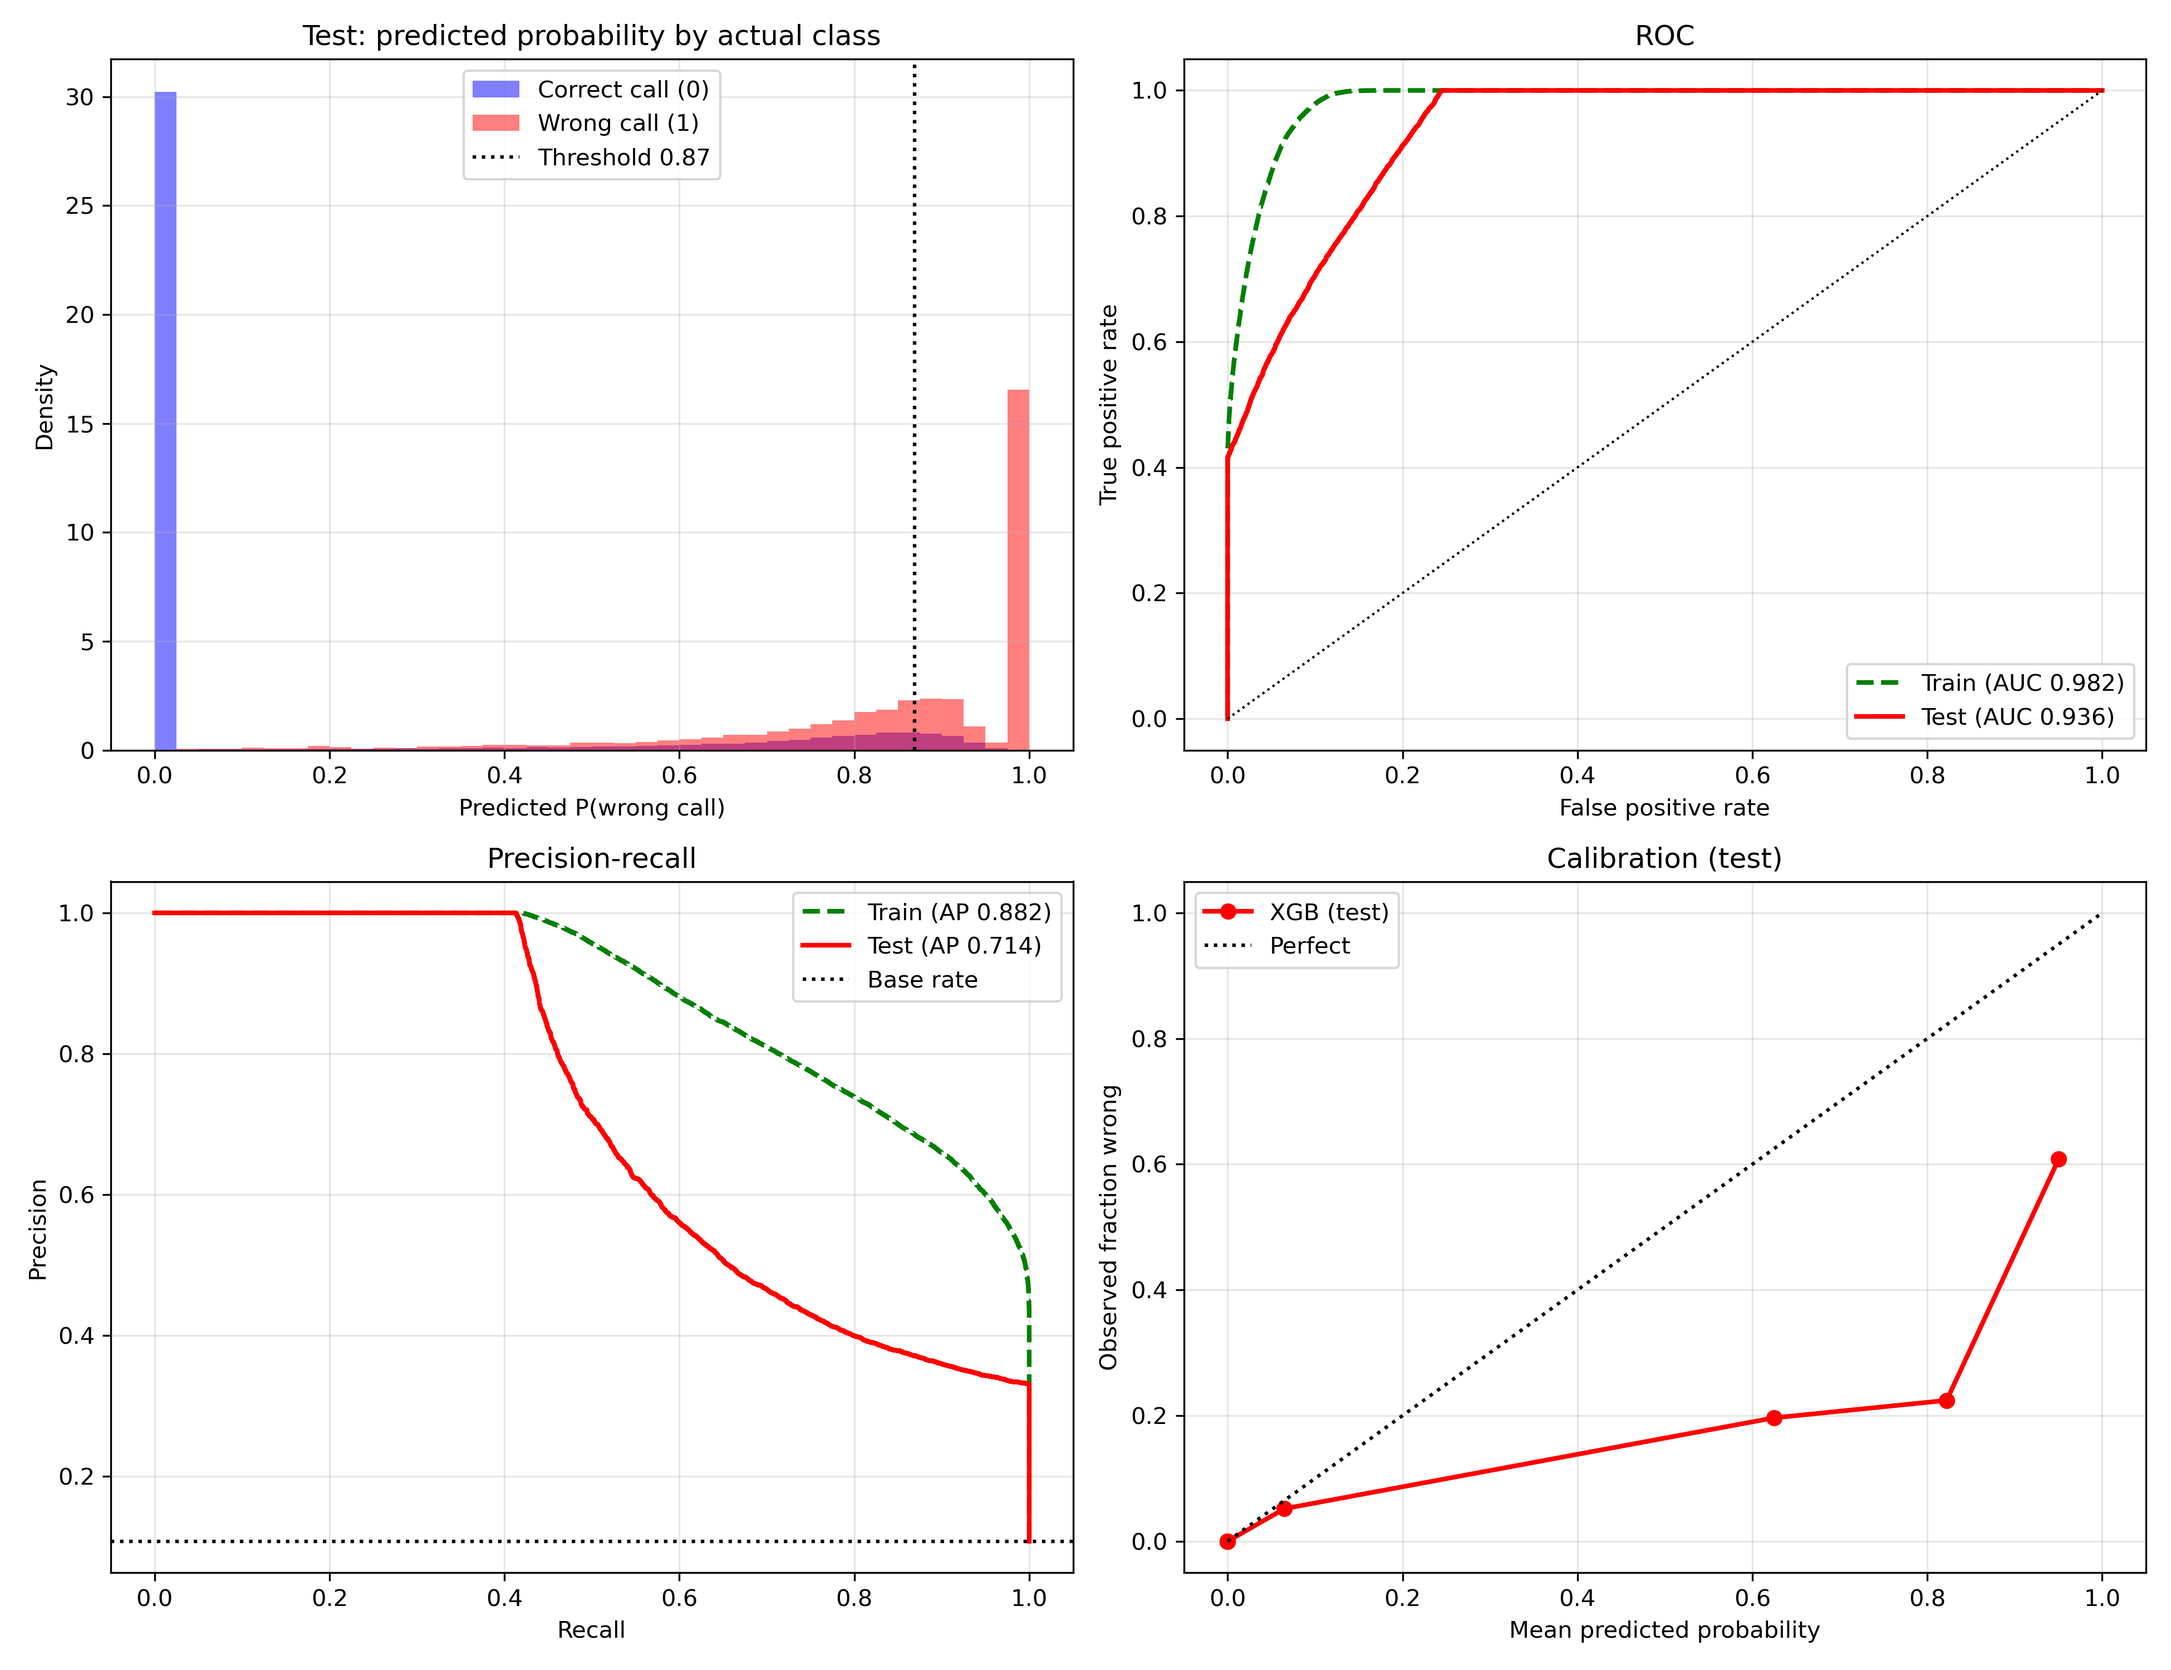
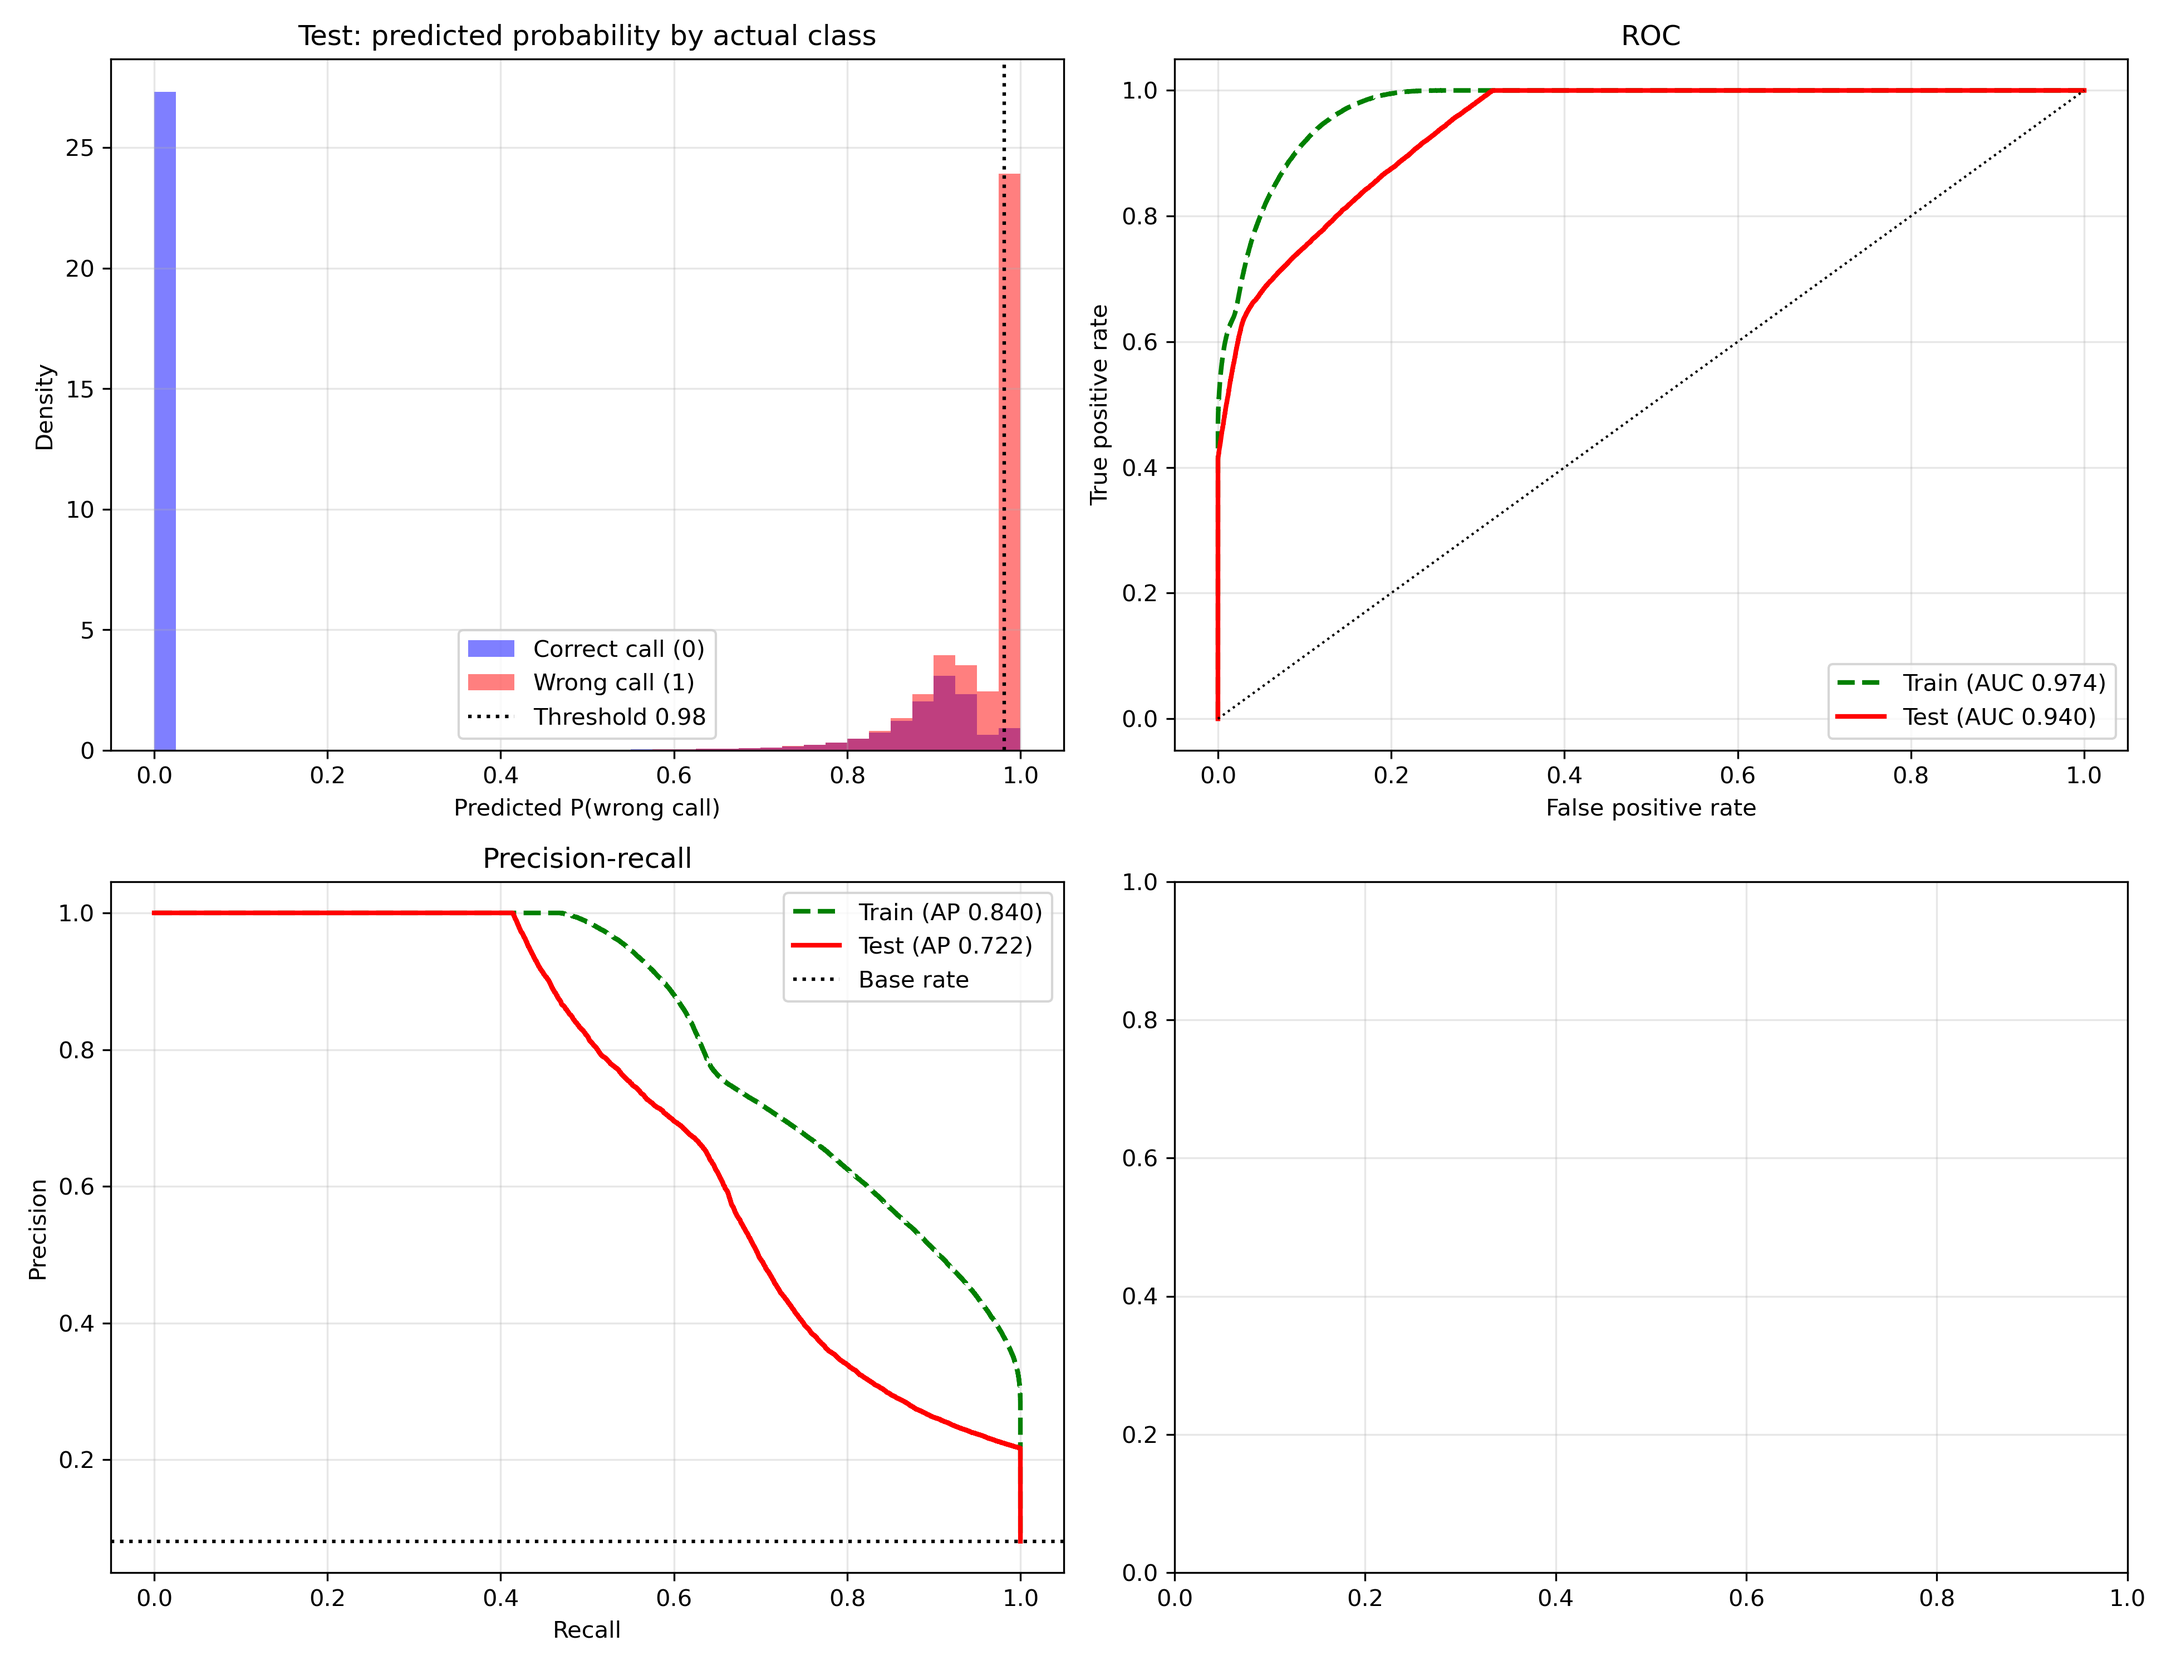
update

diff --git a/App/app.py b/App/app.py
@@ -2,10 +2,11 @@ from pathlib import Path
 import pandas as pd
 import plotly.graph_objects as go
 import streamlit as st
+import pickle
+DATA_PATH = Path(__file__).parent / "data" / "2025_preds_data.parquet"
+MODEL_PATH = Path(__file__).parent / "data" / "final_model.pkl"
 
-DATA_PATH = PATH = f"../viz/2025_preds_data.parquet"
-
-MIN_PITCHES = 30   # zones with fewer pitches than this are left blank
+MIN_PITCHES = 20   # zones with fewer pitches than this are left blank
 MAX_RATE = 0.30    
 
 # Where to draw the 5x5 grid
@@ -182,6 +183,8 @@ def make_table(zones):
 # UI Page
 st.set_page_config(page_title="ABS Challenge Planner", layout="wide")
 st.title("ABS Challenge Planner")
+mode = st.radio("Data source", ["Historical data", "New prediction"],
+                horizontal=True, label_visibility="collapsed")
 st.caption("Where is the umpire most likely to miss? Pick a situation to see which pitch "
            "locations are worth a challenge.")
 
@@ -193,84 +196,113 @@ def choices(column):
 
     return [ALL] + sorted(data[column].dropna().unique())
 
+def render_hist():
 
-# Sidebar filters
-with st.sidebar:
-    st.header("Batter")
-    batter_hand = st.radio("Bats", ["R", "L"], horizontal=True)
-    home_away = st.selectbox("Batting at", choices("home_away"))
+    # Sidebar filters
+    with st.sidebar:
+        st.header("Batter")
+        batter_hand = st.radio("Bats", ["R", "L"], horizontal=True)
+        home_away = st.selectbox("Batting at", choices("home_away"))
 
-    st.header("Pitcher")
-    pitcher_hand = st.selectbox("Throws", choices("pitcher_hand"))
-    pitcher = st.selectbox("Pitcher", choices("pitcher"))
-    pitch_type = st.selectbox("Pitch type", choices("pitch_type"))
+        st.header("Pitcher")
+        pitcher_hand = st.selectbox("Throws", choices("pitcher_hand"))
+        pitcher = st.selectbox("Pitcher", choices("pitcher"))
+        pitch_type = st.selectbox("Pitch type", choices("pitch_type"))
 
-    st.header("Game situation")
-    umpire = st.selectbox("Home plate umpire", choices("umpire"))
-    home_team = st.selectbox("Ballpark (home team)", choices("home_team"))
-    count = st.selectbox("Count (balls-strikes)", choices("count"))
-    inning = st.selectbox("Inning", choices("inning"))
-    outs = st.selectbox("Outs", choices("outs"))
+        st.header("Game situation")
+        umpire = st.selectbox("Home plate umpire", choices("umpire"))
+        home_team = st.selectbox("Ballpark (home team)", choices("home_team"))
+        count = st.selectbox("Count (balls-strikes)", choices("count"))
+        inning = st.selectbox("Inning", choices("inning"))
+        outs = st.selectbox("Outs", choices("outs"))
 
-    st.header("Challenge rule")
-    threshold_pct = st.slider("Challenge when the chance the call is wrong is at least",
-                              min_value=1, max_value=40, value=10, format="%d%%")
+        st.header("Challenge rule")
+        threshold_pct = st.slider("Challenge when the chance the call is wrong is at least",
+                                min_value=1, max_value=40, value=10, format="%d%%")
 
-# Apply the filters
-filtered = data[data["batter_hand"] == batter_hand]
-filters = {"home_away": home_away, "pitcher_hand": pitcher_hand, "pitcher": pitcher,
-           "pitch_type": pitch_type, "umpire": umpire, "home_team": home_team,
-           "count": count, "inning": inning, "outs": outs}
-for column, value in filters.items():
-    if value != ALL:
-        filtered = filtered[filtered[column] == value]
+    # Apply the filters
+    filtered = data[data["batter_hand"] == batter_hand]
+    filters = {"home_away": home_away, "pitcher_hand": pitcher_hand, "pitcher": pitcher,
+            "pitch_type": pitch_type, "umpire": umpire, "home_team": home_team,
+            "count": count, "inning": inning, "outs": outs}
+    for column, value in filters.items():
+        if value != ALL:
+            filtered = filtered[filtered[column] == value]
 
-if filtered.empty:
-    st.warning("No data for this combination of filters. Try loosening one of them.")
-    st.stop()
+    if filtered.empty:
+        st.warning("No data for this combination of filters. Try loosening one of them.")
+        st.stop()
 
-zones = summarize(filtered, batter_hand)
-zones["challenge"] = zones["enough_data"] & ((zones["wrong_rate"] * 100).round() >= threshold_pct)
-zones["recommendation"] = zones["challenge"].map({True: "Challenge", False: "Hold"})
-zones.loc[~zones["enough_data"], "recommendation"] = "Too few pitches"
+    zones = summarize(filtered, batter_hand)
+    zones["challenge"] = zones["enough_data"] & ((zones["wrong_rate"] * 100).round() >= threshold_pct)
+    zones["recommendation"] = zones["challenge"].map({True: "Challenge", False: "Hold"})
+    zones.loc[~zones["enough_data"], "recommendation"] = "Too few pitches"
 
-reliable = zones[zones["enough_data"]]
-if reliable.empty:
-    st.warning(f"Every zone has fewer than {MIN_PITCHES} pitches. Try loosening a filter.")
-    st.stop()
+    reliable = zones[zones["enough_data"]]
+    if reliable.empty:
+        st.warning(f"Every zone has fewer than {MIN_PITCHES} pitches. Try loosening a filter.")
+        st.stop()
 
-# Headline numbers
-best = reliable.sort_values("wrong_rate", ascending=False).iloc[0]
-col1, col2, col3 = st.columns(3)
-col1.metric("Zones worth a challenge", f"{zones['challenge'].sum()} of 25")
-col2.metric("Best spot to challenge", best["long_name"],
-            f"{best['wrong_rate']:.0%} chance the call is wrong", delta_color="off")
-col3.metric("Pitches behind this view", f"{zones['n_pitches'].sum():,}")
+    # Headline numbers
+    best = reliable.sort_values("wrong_rate", ascending=False).iloc[0]
+    col1, col2, col3 = st.columns(3)
+    col1.metric("Zones worth a challenge", f"{zones['challenge'].sum()} of 25")
+    col2.metric("Best spot to challenge", best["long_name"],
+                f"{best['wrong_rate']:.0%} chance the call is wrong", delta_color="off")
+    col3.metric("Pitches behind this view", f"{zones['n_pitches'].sum():,}")
 
-# The two charts
-st.caption("Viewed from behind the catcher. Inside/outside are relative to the batter. "
-           f"The dark outline is the strike zone. Zones with fewer than {MIN_PITCHES} pitches are left blank.")
-left, right = st.columns(2)
-with left:
-    st.subheader("Chance the call is wrong")
-    st.plotly_chart(make_chart(zones, False, threshold_pct), width="stretch")
-with right:
-    st.subheader(f"Challenge map (at {threshold_pct}% or higher)")
-    st.plotly_chart(make_chart(zones, True, threshold_pct), width="stretch")
+    # The two charts
+    st.caption("Viewed from behind the catcher. Inside/outside are relative to the batter. "
+            f"The dark outline is the strike zone. Zones with fewer than {MIN_PITCHES} pitches are left blank.")
+    left, right = st.columns(2)
+    with left:
+        st.subheader("Chance the call is wrong")
+        st.plotly_chart(make_chart(zones, False, threshold_pct), width="stretch")
+    with right:
+        st.subheader(f"Challenge map (at {threshold_pct}% or higher)")
+        st.plotly_chart(make_chart(zones, True, threshold_pct), width="stretch")
 
-# Tables
-st.subheader("Best challenge spots")
-table_settings = {
-    "Chance call is wrong": st.column_config.ProgressColumn(
-        format="%.0f%%", min_value=0, max_value=MAX_RATE * 100),
-    "Model score": st.column_config.NumberColumn(
-        format="%.0f%%",
-        help="Average model prediction. It runs well above the real miss rate, "
-             "so use it to compare zones, not as a true probability."),
-}
-st.dataframe(make_table(reliable).head(5), hide_index=True, width="stretch",
-             column_config=table_settings)
-with st.expander("See all 25 zones"):
-    st.dataframe(make_table(zones), hide_index=True, width="stretch",
-                 column_config=table_settings)
-st.caption(f"Data: {len(data):,} called pitches from the 2025 season.")
+    # Tables
+    st.subheader("Best challenge spots")
+    table_settings = {
+        "Chance call is wrong": st.column_config.ProgressColumn(
+            format="%.0f%%", min_value=0, max_value=MAX_RATE * 100),
+        "Model score": st.column_config.NumberColumn(
+            format="%.0f%%",
+            help="Average model prediction. It runs well above the real miss rate, "
+                "so use it to compare zones, not as a true probability."),
+    }
+    st.dataframe(make_table(reliable).head(5), hide_index=True, width="stretch",
+                column_config=table_settings)
+    with st.expander("See all 25 zones"):
+        st.dataframe(make_table(zones), hide_index=True, width="stretch",
+                    column_config=table_settings)
+    st.caption(f"Data: {len(data):,} called pitches from the 2025 season.")
+
+@st.cache_resource
+def load_model():
+    with open(MODEL_PATH, "rb") as f:
+        model = pickle.load(f)
+    model["model"].set_params(xgb__device="cpu")
+    return model
+
+def load_model_data():
+    df = pd.read_parquet(DATA_PATH, columns=columns)
+    return df
+
+def render_predict():
+    st.subheader("Predict a new pitch")
+    model = load_model()
+    data = load_model_data
+    with st.form("predict_form"):
+        c1, c2 = st.columns(2)
+        #stand      = c1.radio("Batter side", data["Batter side"].dropna().unique(), horizontal=True)
+        st.dataframe(model["dtypes"])
+        st.write(data.dtypes)  
+
+
+
+if mode == "Historical data":
+    render_hist()
+else:
+    render_predict()

diff --git a/README.md b/README.md
@@ -11,6 +11,11 @@ The code is organized in a series of Jupyter notebooks. All notebook paths are r
 
  ```
 📦Code
+ ┣ 📂App
+ ┃ ┣ 📂data
+ ┃ ┃ ┣ 📜.gitkeep
+ ┃ ┃ ┗ 📜2025_preds_data.parquet
+ ┃ ┗ 📜app.py
  ┣ 📂Baseline Model Eval
  ┃ ┣ 📜baseline_model_logr.ipynb
  ┃ ┣ 📜baseline_model_nn.ipynb
@@ -55,6 +60,7 @@ The code is organized in a series of Jupyter notebooks. All notebook paths are r
  ┃ ┗ 📜.gitkeep
  ┣ 📂viz
  ┃ ┣ 📜.gitkeep
+ ┃ ┣ 📜2025_preds_data.parquet
  ┃ ┣ 📜2025_preds_summary.csv
  ┃ ┗ 📜viz.ipynb
  ┣ 📜.gitignore
@@ -135,7 +141,7 @@ jupyter lab
 
 # Execution
 
-To rebuild everything run the notebooks in this order.
+To rebuild everything run the notebooks/scripts in this order.
 
 1. Go to Data Collection + EDA Folder:
     1. [Data Collection + EDA/data_retrevial.ipynb](<Data Collection + EDA/data_retrevial.ipynb>)
@@ -154,3 +160,7 @@ To rebuild everything run the notebooks in this order.
 
 4. Go to viz folder:
     1. [viz/viz.ipynb](viz/viz.ipynb)
+5. Run app from root:
+    ```
+    streamlit run App/app.py
+    ```
